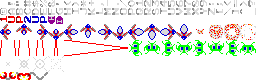
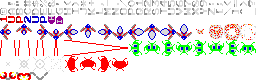
Added player kill & collisions.

Changed region(s): [[0.25, 0.7, 0.5, 0.9]]

diff --git a/src/obj/player.c b/src/obj/player.c
@@ -28,6 +28,7 @@ void PlayerStart(u8 i) {
     players[i].lives = 3;
     players[i].score = 0;
     players[i].poweredUp = 0;
+    players[i].active = true;
     PlayerDrawScoreLabel(i);
     PrintU32Vertical(1, i ? 0 : 21, players[i].score, 9999999);
 }
@@ -71,8 +72,10 @@ void PlayerDrawScoreLabel(u8 i) {
 }
 
 void PlayerResume() {
-    players[activePlayer].dir = SOUTH;
     players[activePlayer].animationTime = 0;
+    players[activePlayer].killTime = 0;
+    Fill(players[activePlayer].x, players[activePlayer].y, PLAYER_WIDTH, PLAYER_HEIGHT, 0);
+    players[activePlayer].dir = SOUTH;
     PlayerSetDirCoordinates();
     DrawMap(players[activePlayer].x, players[activePlayer].y, mapFighterSouthA);
 }
@@ -201,6 +204,13 @@ void PlayerMoveHook() {
 }
 
 void PlayerDrawTiles() {
+    if(players[activePlayer].killTime) {
+        if(players[activePlayer].killTime % 6 == 1) {
+            DrawMap(players[activePlayer].x, players[activePlayer].y, mapFighterKill[players[activePlayer].killTime / 6]);
+        }
+        return;
+    }
+
     if(players[activePlayer].animationTime < 2) {
         DrawMap(players[activePlayer].x, players[activePlayer].y, mapFighterA[players[activePlayer].dir]);
     } else if(players[activePlayer].animationTime < 4 || players[activePlayer].animationTime >= 6) {
@@ -266,8 +276,23 @@ void PlayerInput() {
 }
 
 void PlayerUpdate() {
+    if(!players[activePlayer].active) {
+        return;
+    }
+
     if(fireTimeout) {
         fireTimeout--;
+    }
+
+    if(players[activePlayer].killTime) {
+        PlayerDrawTiles();
+        players[activePlayer].killTime++;
+        if(players[activePlayer].killTime == 25) {
+            players[activePlayer].killTime = 0;
+            players[activePlayer].lives--;
+            PlayerResume(); // Move this later
+        }
+        return;
     }
 
     players[activePlayer].animationTime =
@@ -283,4 +308,8 @@ void PlayerUpdate() {
     if(players[activePlayer].animationTime % 2 == 0) {
         PlayerDrawTiles();
     }
+}
+
+void PlayerKill() {
+    players[activePlayer].killTime = 1;
 }

diff --git a/src/system/graphics.h b/src/system/graphics.h
@@ -5,6 +5,8 @@
 
 #define U32_MAX 0xffffffff
 
+// The created tilemaps
+
 extern const char mapFighterSouthA[];
 extern const char mapFighterSouthB[];
 extern const char mapFighterSouthC[];
@@ -17,6 +19,11 @@ extern const char mapFighterNorthC[];
 extern const char mapFighterEastA[];
 extern const char mapFighterEastB[];
 extern const char mapFighterEastC[];
+
+extern const char mapFighterKillA[];
+extern const char mapFighterKillB[];
+extern const char mapFighterKillC[];
+extern const char mapFighterKillD[];
 
 extern const char mapLaserVerticalA[];
 extern const char mapLaserVerticalB[];
@@ -50,6 +57,11 @@ extern const char mapEnemyKillB[];
 extern const char mapEnemyKillC[];
 extern const char mapEnemyKillD[];
 
+extern const char mapInvaderWarnSouth[];
+extern const char mapInvaderWarnWest[];
+extern const char mapInvaderWarnNorth[];
+extern const char mapInvaderWarnEast[];
+
 extern const char mapHookNE[];
 extern const char mapHookSE[];
 extern const char mapHookSW[];
@@ -57,17 +69,23 @@ extern const char mapHookNW[];
 extern const char mapWireA[];
 extern const char mapWireB[];
 
+// Progression Maps (arrays of pointers)
+
 extern const char *mapFighterA[];
 extern const char *mapFighterB[];
 extern const char *mapFighterC[];
+extern const char *mapFighterKill[];
 
 extern const char *mapLaserVertical[];
 extern const char *mapLaserHorizontal[];
 
 extern const char *mapInvaderA[];
 extern const char *mapInvaderB[];
+extern const char *mapInvaderWarn[];
 
 extern const char *mapEnemyKill[];
+
+// The bare tiles themselves
 
 extern const char tiles[];
 

diff --git a/src/obj/collision.c b/src/obj/collision.c
@@ -2,6 +2,7 @@
 
 u8 CollisionCheck(u8 *, u8 *, u8, u8, u8 *, u8 *, u8, u8);
 u8 CollisionEnemyLaserPreCheck(Enemy *, Laser *);
+u8 CollisionEnemyPlayerPreCheck(Enemy *, Player *);
 
 u8 CollisionCheck(
     u8 *x1, u8 *y1, u8 w1, u8 h1,
@@ -29,6 +30,18 @@ u8 CollisionEnemyLaserPreCheck(Enemy *enemy, Laser *laser) {
     return true;
 }
 
+u8 CollisionEnemyPlayerPreCheck(Enemy *enemy, Player *player) {
+    if(!(*enemy).active || !(*player).active) {
+        return false;
+    }
+
+    if((*enemy).killTime > 0 || (*player).killTime > 0) {
+        return false;
+    }
+
+    return true;
+}
+
 void CollisionRunAll() {
     u8 i, j;
 
@@ -44,6 +57,16 @@ void CollisionRunAll() {
                 EnemyKill(i);
                 PlayerAddScoreDelta(enemyPool[i].score);
             }
+        }
+
+        // Check player collision too
+        if(CollisionEnemyPlayerPreCheck(&enemyPool[i], &players[activePlayer]) && CollisionCheck(
+            &enemyPool[i].x, &enemyPool[i].y, ENEMY_WIDTH, ENEMY_HEIGHT,
+            &players[activePlayer].x, &players[activePlayer].y, PLAYER_WIDTH, PLAYER_HEIGHT
+        )) {
+            PlayerKill();
+            EnemyKill(i);
+            PlayerAddScoreDelta(enemyPool[i].score);
         }
     }
 }

diff --git a/src/obj/enemy.c b/src/obj/enemy.c
@@ -25,6 +25,7 @@ void EnemyInit(direction dir, enemytype type) {
             enemyPool[i].type = type;
             enemyPool[i].animationTime = 0;
             enemyPool[i].killTime = 0;
+            enemyPool[i].movements = 0;
             enemyPool[i].active = true;
             DrawMap(
                 enemyPool[i].x, enemyPool[i].y,
@@ -69,6 +70,7 @@ void EnemyInvaderUpdate(u8 i) {
         Fill(enemyPool[i].x, enemyPool[i].y, ENEMY_WIDTH, ENEMY_HEIGHT, 0);
         enemyPool[i].x += xDelta;
         enemyPool[i].y += yDelta;
+        enemyPool[i].movements++;
 
         // Reached the player? Then Deactivate
         if(
@@ -84,6 +86,11 @@ void EnemyInvaderUpdate(u8 i) {
                     : mapInvaderA[enemyPool[i].dir]
             );
         }
+    } else if(
+        enemyPool[i].movements >= 6
+        && (enemyPool[i].animationTime == 20 || enemyPool[i].animationTime == 60)
+    ) {
+        DrawMap(enemyPool[i].x, enemyPool[i].y, mapInvaderWarn[enemyPool[i].dir]);
     }
 }
 

diff --git a/src/system/graphics.c b/src/system/graphics.c
@@ -17,6 +17,11 @@ const char *mapFighterC[] = {
     mapFighterNorthC, mapFighterEastC
 };
 
+const char *mapFighterKill[] = {
+    mapFighterKillA, mapFighterKillB,
+    mapFighterKillC, mapFighterKillD
+};
+
 const char *mapLaserVertical[] = {
     mapLaserVerticalA, mapLaserVerticalB,
     mapLaserVerticalC, mapLaserVerticalD,
@@ -44,6 +49,11 @@ const char *mapInvaderB[] = {
 const char *mapEnemyKill[] = {
     mapEnemyKillA, mapEnemyKillB,
     mapEnemyKillC, mapEnemyKillD
+};
+
+const char *mapInvaderWarn[] = {
+    mapInvaderWarnSouth, mapInvaderWarnWest,
+    mapInvaderWarnNorth, mapInvaderWarnEast
 };
 
 void PrintVerticalPROGMEM(u8 x, u8 y, const char *str) {

diff --git a/src/obj/player.h b/src/obj/player.h
@@ -19,8 +19,8 @@
 #define PLAYER_EAST_Y 0
 
 typedef struct {
-    u8 lives, animationTime, firing, poweredUp, x, y;
-    u8 hookX, hookY, hookDX, hookDY, hookEnabled;
+    u8 lives, animationTime, killTime, firing, poweredUp, x, y;
+    u8 hookX, hookY, hookDX, hookDY, hookEnabled, active;
     u16 scoreDelta;
     u32 score;
     direction dir, hookDir;
@@ -37,5 +37,6 @@ void PlayerFlushScore();
 void PlayerResume();
 void PlayerInput();
 void PlayerUpdate();
+void PlayerKill();
 
 #endif

diff --git a/src/obj/enemy.h b/src/obj/enemy.h
@@ -21,7 +21,7 @@
 typedef enum { INVADER } enemytype;
 
 typedef struct {
-    u8 x, y, active, animationTime, killTime;
+    u8 x, y, active, movements, animationTime, killTime;
     u16 score;
     direction dir;
     enemytype type;

diff --git a/src/main.c b/src/main.c
@@ -26,7 +26,7 @@ int main() {
     activePlayer = 0;
     PlayerResume();
 
-    EnemyInit(SOUTH, INVADER);
+    EnemyInit(WEST, INVADER);
 
     while(1) {
         WaitVsync(1);
